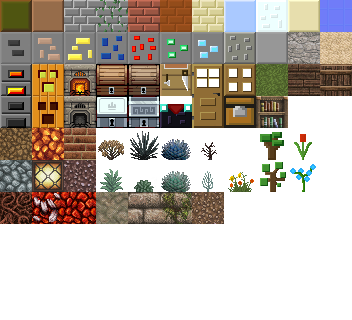
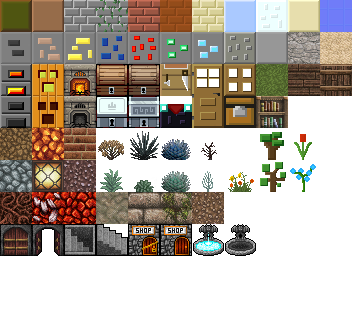
add new tiles to tiles.png

Changed region(s): [[0.0, 0.6875, 0.75, 0.8125]]

diff --git a/src/main/java/net/jmecn/rogue/map/DungeonTyrant.java b/src/main/java/net/jmecn/rogue/map/DungeonTyrant.java
@@ -48,18 +48,20 @@ public class DungeonTyrant extends MapCreator {
 			}
 		}
 
-		for (int y=0; y<map.getHeight(); y++) {
-			for (int x=0; x<map.getWidth(); x++) {
-				if (map.get(x, y) == Corridor) {
-					map.set(x, y, Floor);
-				}
-			}
-		}
 		if (!makeStairs(UpStairs))
 			logger.log(Level.WARNING, "Unable to place up stairs.");
 
 		if (!makeStairs(DownStairs))
 			logger.log(Level.WARNING, "Unable to place down stairs.");
+		
+		
+		for (int y=0; y<map.getHeight(); y++) {
+			for (int x=0; x<map.getWidth(); x++) {
+				if (map.get(x, y) == Corridor) {
+					map.set(x, y, Dirt);
+				}
+			}
+		}
 	}
 
 	public void setMaxFeatures(int maxFeatures) {

diff --git a/src/main/java/net/jmecn/rogue/core/Tileset.java b/src/main/java/net/jmecn/rogue/core/Tileset.java
@@ -7,9 +7,9 @@ public enum Tileset {
 	Wall(64, 0, false),
 	Stone(0, 160, false),
 	Corridor(192, 192),
-	Door(224, 64),
-	UpStairs(192, 32),
-	DownStairs(160, 32),
+	Door(0, 224),
+	UpStairs(96, 224),
+	DownStairs(64, 224),
 	Chest(96, 64, false),
 	Water(320, 0, false),
 	Grass(256, 64),

diff --git a/src/main/java/net/jmecn/rogue/map/MapFactory.java b/src/main/java/net/jmecn/rogue/map/MapFactory.java
@@ -55,7 +55,7 @@ public class MapFactory {
 		creator.initialze();
 		creator.create();
 		
-		logger.debug("Create map with : {}", creator);
+		logger.debug("Creator: {}", creator);
 		return creator.getMap();
 	}
 	

diff --git a/src/main/java/net/jmecn/rogue/view/GameView.java b/src/main/java/net/jmecn/rogue/view/GameView.java
@@ -218,6 +218,7 @@ public class GameView extends Canvas {
 				case Corridor:
 				case Dirt:
 				case Moss:
+				case Grass:
 					g.setColor(Color.WHITE);
 					break;
 				case Wall:
